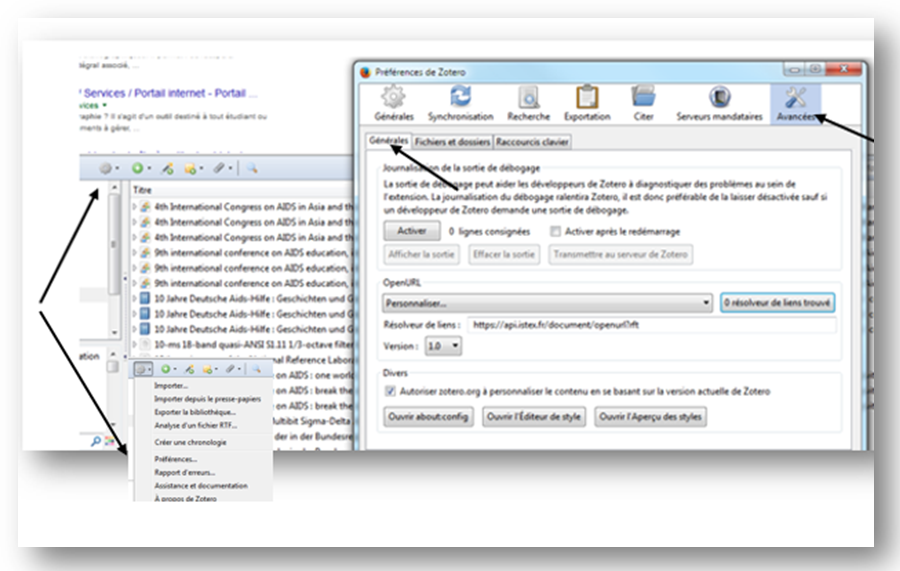
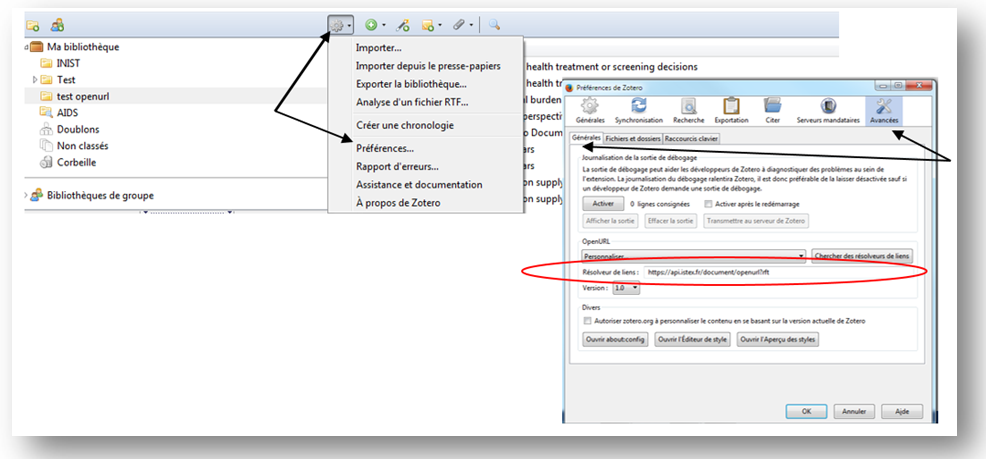
OpenUrl avec PMID

diff --git a/docs/discovery.md b/docs/discovery.md
@@ -20,6 +20,8 @@ Ces réservoirs de métadonnées destinés aux bibliothèques permettent de fair
 
 - via une OpenURL au plein texte des articles des abonnements achetés dans le cadre des licences nationales ISTEX sur la plateforme ISTEX
 
+Pour en savoir plus sur le **[résolveur OpenURL ISTEX](https://api.istex.fr/documentation/openurl/)**
+
 
 
 ## EDS ##
@@ -30,9 +32,11 @@ Une recherche sur l’article suivant : *Tricuspid incompetence and right ventri
 
 ![Schéma interrogationbibcnrs](img/recherchebibcnrs.png)
 
-Deux propositions d'accès au PDF : 
+Deux propositions d'accès au PDF :
 
 - Directement à partir de la plateforme ISTEX par OpenURL avec pérennité de l’accès
+
+
 - Ou par rebond à partir du site de l'éditeur via le résolveur de lien FTF d'EBSCO
 
 ![Schéma des liens possible](img/lien.png)
@@ -50,22 +54,41 @@ Dans le HLM en cliquant sur **"Liens"**, l’administrateur peut visualiser les 
 
 #### Création d'un lien vers la plateforme ISTEX
 
+
 Cliquer sur **"Nouveau lien"**
+
+
 
 ![Schéma création lien ISTEX](img/CreationdelienISTEX.png)
 
+
+
 Remplir le formulaire **"Url\* de base"**
 
-Avec  `https://api.istex.fr/document/openurl?rft_id=info:doi/{DOI}&sid=ebsco&auth=ip,fede`
+
+
+Avec `https://api.istex.fr/document/openurl`
+
+
+
+Au niveau de la **"Chaîne de requête"** préciser le champ DOI et PMID plus le mode et l'ordre d'authentification : IP puis Fédération d'identité
+
+
+
+`?rft_id=info:doi/{DOI}&rft_id=info:pmid/{PMID}&sid=ebsco&auth=ip,fede`
+
 
 ![Schéma renseigner openurlISTEX](img/openurlplateforme.png)
 
-Puis le champ **"DOI"** sans oublier d'appliquer le proxy.
 
-![Schéma DOIProxy](img/doiproxy.png)
+Ainsi que les métadonnées prises en comptes : 
+
+`{IfNotEmpty({DOI}{PMID},ok,)}`
+
+Pour personnifier l'affichage du lien, rajouter l’icône ISTEX dont l'URL est :
 
 
-Pour personnifier l'affichage du lien, rajouter l’icône ISTEX dont l'URL est https://content-delivery.istex.fr/assets/img/istex-minilink.png
+`https://content-delivery.istex.fr/assets/img/istex-minilink.png`
 
 ![Schéma IconeIstex](img/IconeISTEX.png)
 

diff --git a/docs/logiciel.md b/docs/logiciel.md
@@ -4,6 +4,9 @@
 Les logiciels de gestion de bibliographie sont destinés à établir et gérer des listes de références bibliographiques afin de rédiger des articles, des ouvrages ou des thèses de doctorat. Dans ses références bibliographiques il est intéressant, pour faciliter le travail, d'y ranger le PDF de l'article ou du chapitre. L'OpenURL est une solution.
 
 
+Pour en savoir plus sur le **[résolveur OpenURL ISTEX](https://api.istex.fr/documentation/openurl/)**
+
+
 Exemple d'un logiciel libre et d'un logiciel propriétaire :
 
 - **ZOTERO** 

diff --git a/docs/index.md b/docs/index.md
@@ -8,9 +8,8 @@ Cette documentation est classée par **Thématique** . Elle est amenée à évol
 La documentation est répartie selon les chapitres suivants :
 
 
-* [Configurer votre Discovery Tool](discovery)
-
-* [Configurer votre Logiciel de Gestion Bibliographique](logiciel)
+* [Configurer votre Discovery Tool](discovery/)
+* [Configurer votre Logiciel de Gestion Bibliographique](logiciel/)
 
 
 
